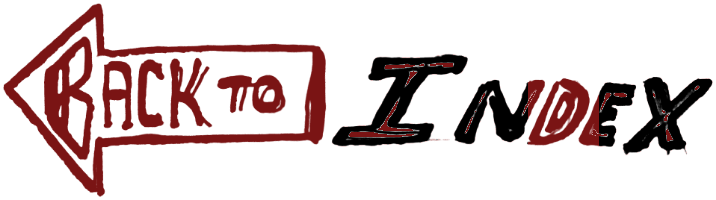
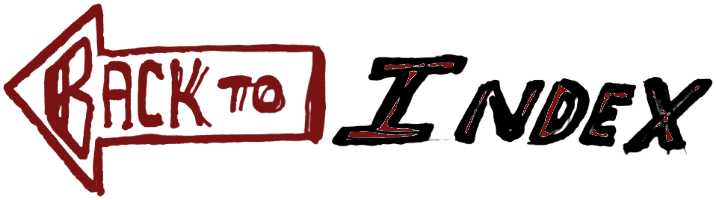
Nav: match D to the hand-drawn reference (red line accent, open counter)
D's stroke stays black like the rest. Only the largest fragment of
its counter - the elongated upper-left sliver, which is what reads
as a thin red line following the curve - gets the red accent fill,
same treatment as the small pockets on I/N/E/X. The rest of the
counter stays open/transparent as shown in the reference photo.

Changed region(s): [[0.7374, 0.39, 0.8603, 0.75]]

diff --git a/codex.html b/codex.html
@@ -30,7 +30,7 @@
   <img src="codex-figure.jpg" alt="Drawing: a framed figure with arms crossed and a head made of ornate clustered shapes" class="codex-figure">
 </div>
 <nav class="menu" aria-label="Main menu">
-  <a href="index.html"><img src="index-word.png?v=12" alt="Index"></a>
+  <a href="index.html"><img src="index-word.png?v=13" alt="Index"></a>
   <a href="audio.html"><img src="titre-audio.png?v=2" alt="Audio"></a>
   <a href="video.html"><img src="titre-video.png?v=2" alt="Video"></a>
   <a href="argumentum.html"><img src="titre-argumentum.png?v=2" alt="Argumentum"></a>

diff --git a/agenda.html b/agenda.html
@@ -23,7 +23,7 @@
     <img src="agenda-vanguard.jpg" alt="Notebook page: Village Vanguard (2028)" class="agenda-art">  </div>
 </div>
 <nav class="menu" aria-label="Main menu">
-  <a href="index.html"><img src="index-word.png?v=12" alt="Index"></a>
+  <a href="index.html"><img src="index-word.png?v=13" alt="Index"></a>
   <a href="audio.html"><img src="titre-audio.png?v=2" alt="Audio"></a>
   <a href="video.html"><img src="titre-video.png?v=2" alt="Video"></a>
   <a href="codex.html"><img src="titre-codex.png?v=2" alt="Codex"></a>

diff --git a/audio.html b/audio.html
@@ -27,7 +27,7 @@
   </div>
 </div>
 <nav class="menu" aria-label="Main menu">
-  <a href="index.html"><img src="index-word.png?v=12" alt="Index"></a>
+  <a href="index.html"><img src="index-word.png?v=13" alt="Index"></a>
   <a href="video.html"><img src="titre-video.png?v=2" alt="Video"></a>
   <a href="codex.html"><img src="titre-codex.png?v=2" alt="Codex"></a>
   <a href="argumentum.html"><img src="titre-argumentum.png?v=2" alt="Argumentum"></a>

diff --git a/video.html b/video.html
@@ -31,7 +31,7 @@
   </div>
 </div>
 <nav class="menu" aria-label="Main menu">
-  <a href="index.html"><img src="index-word.png?v=12" alt="Index"></a>
+  <a href="index.html"><img src="index-word.png?v=13" alt="Index"></a>
   <a href="audio.html"><img src="titre-audio.png?v=2" alt="Audio"></a>
   <a href="codex.html"><img src="titre-codex.png?v=2" alt="Codex"></a>
   <a href="argumentum.html"><img src="titre-argumentum.png?v=2" alt="Argumentum"></a>

diff --git a/comodoro.html b/comodoro.html
@@ -27,7 +27,7 @@
   </div>
 </div>
 <nav class="menu" aria-label="Main menu">
-  <a href="index.html"><img src="index-word.png?v=12" alt="Index"></a>
+  <a href="index.html"><img src="index-word.png?v=13" alt="Index"></a>
   <a href="audio.html"><img src="titre-audio.png?v=2" alt="Audio"></a>
   <a href="video.html"><img src="titre-video.png?v=2" alt="Video"></a>
   <a href="codex.html"><img src="titre-codex.png?v=2" alt="Codex"></a>

diff --git a/contact.html b/contact.html
@@ -27,7 +27,7 @@
   </div>
 </div>
 <nav class="menu" aria-label="Main menu">
-  <a href="index.html"><img src="index-word.png?v=12" alt="Index"></a>
+  <a href="index.html"><img src="index-word.png?v=13" alt="Index"></a>
   <a href="audio.html"><img src="titre-audio.png?v=2" alt="Audio"></a>
   <a href="video.html"><img src="titre-video.png?v=2" alt="Video"></a>
   <a href="codex.html"><img src="titre-codex.png?v=2" alt="Codex"></a>

diff --git a/argumentum.html b/argumentum.html
@@ -83,7 +83,7 @@
 
 </main>
 <nav class="menu" aria-label="Main menu">
-  <a href="index.html"><img src="index-word.png?v=12" alt="Index"></a>
+  <a href="index.html"><img src="index-word.png?v=13" alt="Index"></a>
   <a href="audio.html"><img src="titre-audio.png?v=2" alt="Audio"></a>
   <a href="video.html"><img src="titre-video.png?v=2" alt="Video"></a>
   <a href="codex.html"><img src="titre-codex.png?v=2" alt="Codex"></a>
